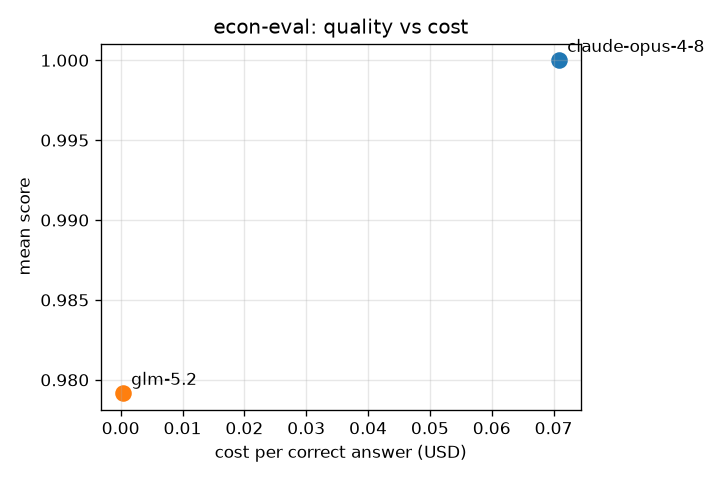
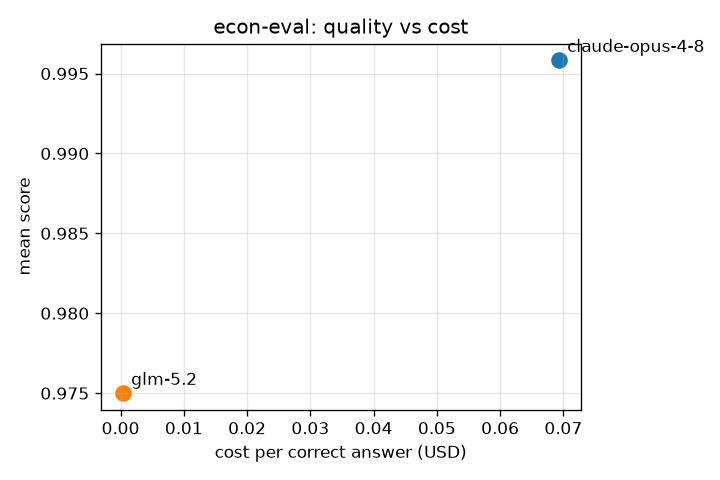
eval N=5 complete: final report, plot, scores (near-parity, no significant difference)

diff --git a/results/report-2026-06-22.md b/results/report-2026-06-22.md
@@ -4,8 +4,8 @@
 
 | model | score | 95% CI | cost/correct (USD) |
 |---|---|---|---|
-| claude-opus-4-8 | 1.000 | [1.000, 1.000] | 0.0709 |
-| glm-5.2 | 0.979 | [0.938, 1.000] | 0.0003 |
+| claude-opus-4-8 | 0.996 | [0.983, 1.000] | 0.0693 |
+| glm-5.2 | 0.975 | [0.929, 1.000] | 0.0003 |
 
 ## quantitative
 
@@ -19,7 +19,7 @@
 | model | score | 95% CI |
 |---|---|---|
 | claude-opus-4-8 | 1.000 | [1.000, 1.000] |
-| glm-5.2 | 0.917 | [0.750, 1.000] |
+| glm-5.2 | 0.900 | [0.750, 1.000] |
 
 ## coding
 
@@ -32,12 +32,12 @@
 
 | model | score | 95% CI |
 |---|---|---|
-| claude-opus-4-8 | 1.000 | [1.000, 1.000] |
+| claude-opus-4-8 | 0.983 | [0.933, 1.000] |
 | glm-5.2 | 1.000 | [1.000, 1.000] |
 
 ## Head-to-head
 
 - tasks compared: 12
-- claude-opus-4-8 win-rate vs glm-5.2: 1.00
+- claude-opus-4-8 win-rate vs glm-5.2: 0.67
 - sign-test p-value: 1.0000 (NOT significant at alpha=0.05)
 - verdict: no significant difference
